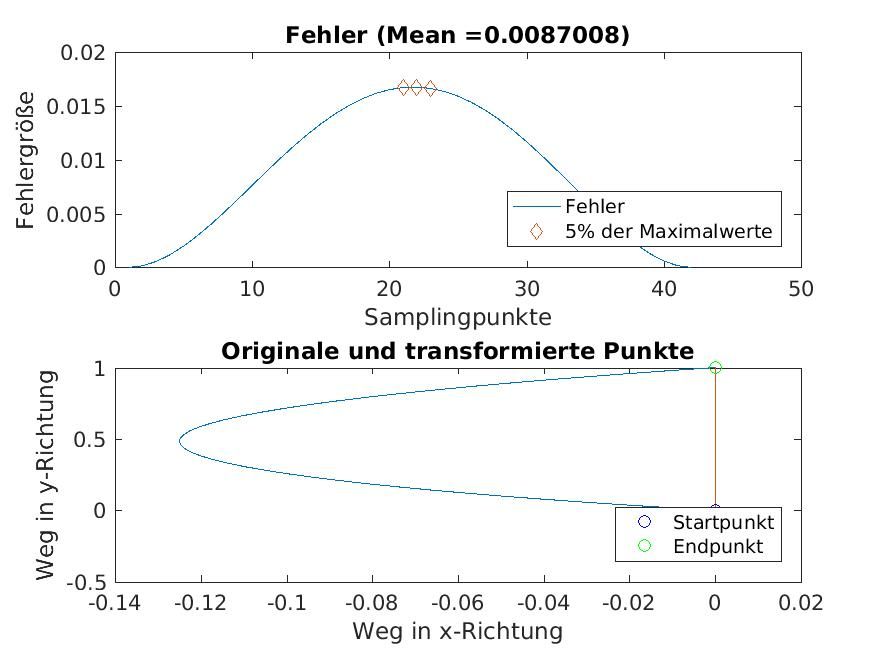
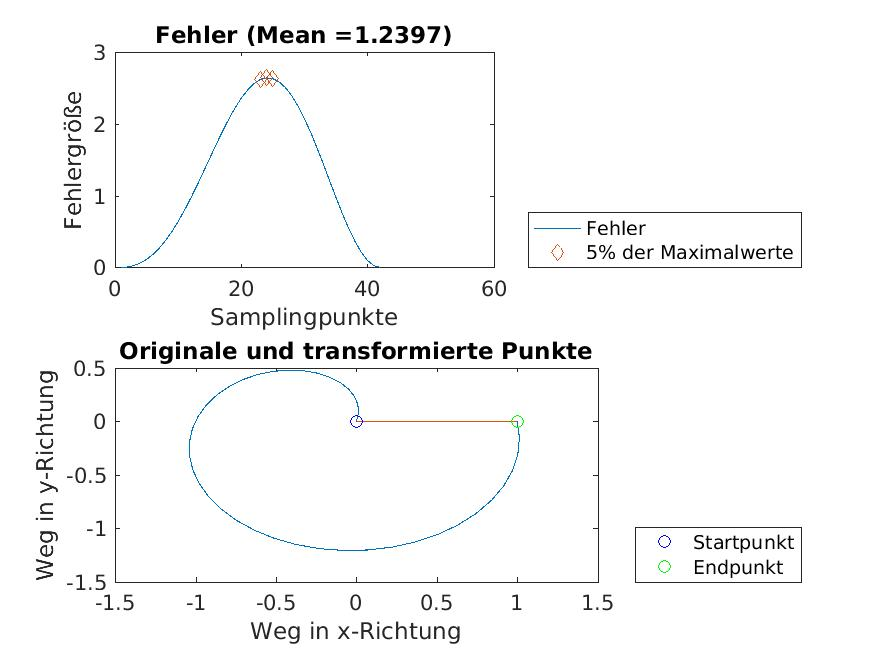
New untitles pic

diff --git a/algorithm_det.m b/algorithm_det.m
@@ -1,44 +1,49 @@
-
+ssize = 40
 error = 0.1;
 start_pt = [0;0];
 end_pt = [0;1];
-start_angle = 0
+angle = 0
 arms = [1,1,1];
-thetas = ikin(start_pt(1), start_pt(2), start_angle, arms);
+%init
+
+thetas = ikin(start_pt(1), start_pt(2), angle, arms);
 maxd = arms(1)*arms(2);
-nue = 1; %lernrate
+nue = 0.5; %lernrate
 dist = end_pt-start_pt;
 dist_len = norm(dist);
 step = 0;
 points = [];
 i = 1;
-thetas(:,1) = thetas'
+theta_list = zeros(3,1)
 while(1)
+theta_list(:,i) = thetas'
 [j_0,d_0] = jac(arms(1),arms(2),arms(3),thetas(1),thetas(2),thetas(3));
-step = d_0/maxd * nue
+t_i = abs(d_0)/max_d*nue + t_i_old
+
 current_pt = start_pt + step*dist
 points(1,i) = current_pt(1);
 points(2,i) = current_pt(2);
 points
 i = i+1
-thetas = ikin (current_pt(1),current_pt(2), angle, arms) 
+thetas = ikin (current_pt(1),current_pt(2), angle, arms)
+
 if(step >= 1)
     break
 end
-
-
 end
 
 %berechne trajektorie
-traj = trajectory1(theta_list, 40)
+traj = trajectory1(theta_list, ssize)
 path = retransform(arms, traj) %endgültiger pfad, gesampelt mit 40*lenght(traj)
+%annahme: nur zwei gegebene punkte der geraden
+ssize2 = length(theta_list)+(length(theta_list)-1)*ssize-2
   ori_pts = [];
   ori = [start_pt(1) end_pt(1)]
   ori2 = [start_pt(2) end_pt(2)]
-  ori_pts(1,:) = sample_multiple(ori, 40+length(theta_list));
-  ori_pts(2,:) = sample_multiple(ori2,40+length(theta_list));
+  ori_pts(1,:) = sample_multiple(ori, ssize2);
+  ori_pts(2,:) = sample_multiple(ori2,ssize2);
 
-            trs_pts = transformed_pts_tsp;
+ trs_pts = path;
             trs_pts(3,:) = [];
             abstand = sqrt(sum((trs_pts - ori_pts).^2));
             abstand_quadriert = sum((trs_pts-ori_pts).^2);
@@ -47,7 +52,7 @@ path = retransform(arms, traj) %endgültiger pfad, gesampelt mit 40*lenght(traj)
             maxError = max(max(error));
 
             
-            figure('visible','off');
+            figure
             ax1 = subplot(2,1,1);
             l = length(error);
             five_p = ceil(l*0.05);
@@ -65,9 +70,9 @@ path = retransform(arms, traj) %endgültiger pfad, gesampelt mit 40*lenght(traj)
             title(ax1,str);
 
             ax2 = subplot(2,1,2);
-            plot(transformed_pts_tsp(1,:),transformed_pts_tsp(2,:));
+            plot(trs_pts(1,:),trs_pts(2,:));
             hold on;
-            plot(original_pts(1,:),original_pts(2,:));
+            plot(ori_pts(1,:),ori_pts(2,:));
             hold on;
             j(1) = plot(start_pt(1),start_pt(2), 'ob');
             hold on;
@@ -77,6 +82,6 @@ path = retransform(arms, traj) %endgültiger pfad, gesampelt mit 40*lenght(traj)
             legend(j, 'Startpunkt', 'Endpunkt','Location','southeastoutside')
             title(ax2,'Originale und transformierte Punkte');
             hold off;
-            str = sprintf('test%d/iteration%d.jpg',testnumber,iteration);
-            saveas(gcf,str)
+           % str = sprintf('test%d/iteration%d.jpg',testnumber,iteration);
+           % saveas(gcf,str)
 

diff --git a/algorithm.m b/algorithm.m
@@ -10,7 +10,7 @@ iteration = 1;
 dir_path = sprintf('test%d',testnumber);
 mkdir(dir_path)
 while(1)
-t_obj = TransformationObject([0;0],[0;1],sSize1, sSize2, angles,[1,1,1],iteration,testnumber);
+t_obj = TransformationObject([0;0],[1;0],sSize1, sSize2, angles,[1,1,1],iteration,testnumber);
 t_obj.toJSpace()
 t_obj.trajGen()
 t_obj.toTSpace()
